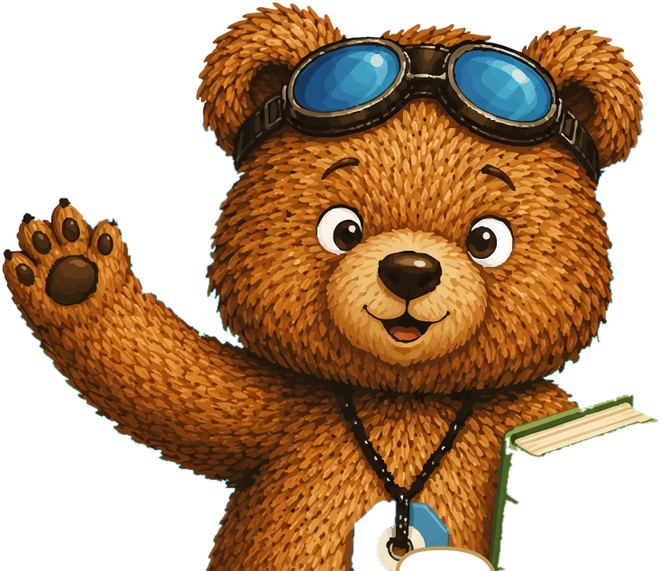
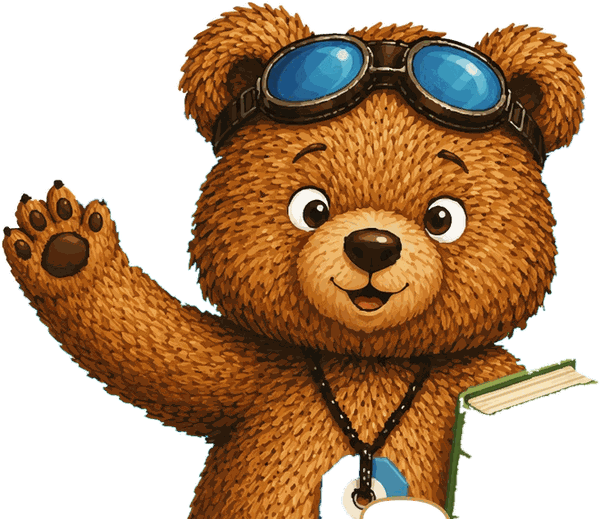
Fix half-rendered bear images on live (re-upload optimized PNGs)
The live badge and mascot rendered only their top half — a truncated
binary upload from a flaky FTP transfer. Re-encode both PNGs much
smaller (logo 565KB→77KB, mascot 583KB→99KB) via 256-colour quantize
so the transfer is reliable, and bump their cache-bust versions
(logo v=11, mascot v=2) to force browsers/CDN to refetch.

diff --git a/index.html b/index.html
@@ -17,7 +17,7 @@
 <!-- NAV -->
 <nav>
     <a href="#" class="nav-logo">
-        <img src="bear-mascot.png?v=1" alt="" class="nav-bear" aria-hidden="true" width="55" height="48" style="height:48px;width:auto;">
+        <img src="bear-mascot.png?v=2" alt="" class="nav-bear" aria-hidden="true" width="55" height="48" style="height:48px;width:auto;">
         <span>Arkadaşım Kelimeler</span>
     </a>
     <ul class="nav-links">
@@ -52,7 +52,7 @@
     <div class="bubble" style="width:50px;height:50px;left:90%;bottom:-50px;animation-duration:10s;animation-delay:0.5s;"></div>
     <div class="hero-content">
         <div class="hero-text fade-in">
-            <img src="logo.png?v=10" alt="Arkadaşım Kelimeler" class="hero-logo" style="height:240px;width:auto;max-width:100%;margin-bottom:0.5rem;display:block;">
+            <img src="logo.png?v=11" alt="Arkadaşım Kelimeler" class="hero-logo" style="height:240px;width:auto;max-width:100%;margin-bottom:0.5rem;display:block;">
             <div class="slogan">✨ Eğitim ve Eğlence Aynı Yerde!</div>
             <p>İlkokula en iyi başlangıç için fiziksel materyal ve teknolojiyi birleştirdik. Sınıfta dersi MEB'in İlk Okuma Yazma kitapları ve akıllı tahta programımızdan takip et, ders kitaplarına destek olan zengin PDF arşiviyle çalış ve mobil uygulamadaki binlerce oyunla potansiyelini geliştir. Eğlenceli öğrenme dünyasına hoş geldin.</p>
             <div class="store-buttons">
@@ -553,7 +553,7 @@
             </div>
         </div>
     </div>
-    <img src="bear-mascot.png?v=1" alt="" aria-hidden="true" class="section-bear peek-left">
+    <img src="bear-mascot.png?v=2" alt="" aria-hidden="true" class="section-bear peek-left">
 </section>
 
 <!-- STATS -->
@@ -1126,7 +1126,7 @@
             </a>
         </div>
     </div>
-    <img src="bear-mascot.png?v=1" alt="" aria-hidden="true" class="cta-bear">
+    <img src="bear-mascot.png?v=2" alt="" aria-hidden="true" class="cta-bear">
 </section>
 
 <!-- FOOTER -->
@@ -1134,7 +1134,7 @@
     <div class="footer-grid">
         <div class="footer-about">
             <a href="#" class="nav-logo" style="display:inline-flex;">
-                <img src="logo.png?v=10" alt="Arkadaşım Kelimeler Logo" style="height:76px;width:auto;">
+                <img src="logo.png?v=11" alt="Arkadaşım Kelimeler Logo" style="height:76px;width:auto;">
             </a>
             <p>Türkiye'nin en eğlenceli kelime oyunu platformu. Yüzlerce bulmaca, onlarca oyun modu ve milyonlarca oyuncuyla buluşan büyük bir aile.</p>
         </div>
